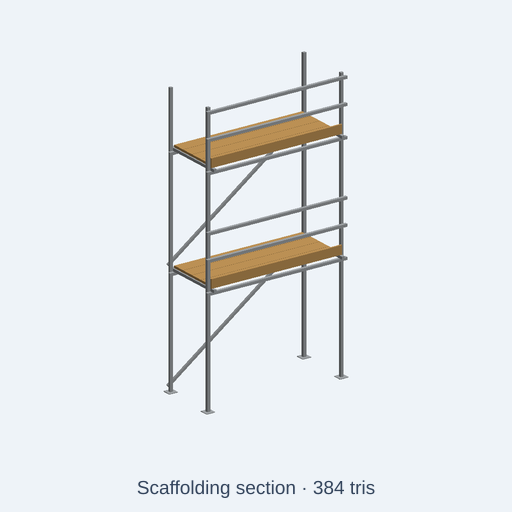
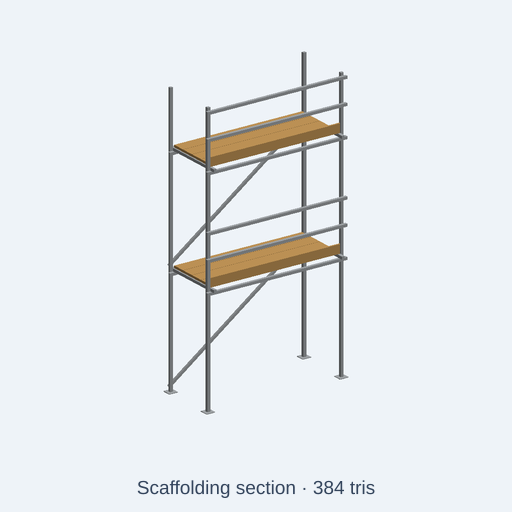
fix(catalog): correct city street clock and structural connections

diff --git a/tests/integration/catalog/cityStreetAssetGeometry.test.ts b/tests/integration/catalog/cityStreetAssetGeometry.test.ts
@@ -1,0 +1,85 @@
+// SPDX-License-Identifier: MIT
+// Copyright (c) 2026 Andrii Shylenko and kernelCAD contributors
+import { resolve } from 'node:path';
+import { NodeIO } from '@gltf-transform/core';
+import { beforeAll, describe, expect, it } from 'vitest';
+import { buildCatalogAssetWithGlb } from '../../../src/agent/catalog/buildCatalog';
+import { initOcct } from '../../../src/kernel/backends/occt/occtBackend';
+
+const root = resolve(import.meta.dirname, '../../..');
+type Point = [number, number, number];
+async function geometry(id: string) {
+  const { asset, glb } = await buildCatalogAssetWithGlb(root, 'catalog/kits/city-street/' + id + '.kcad.ts');
+  expect(asset.stats.minUpM).toBeCloseTo(0, 6);
+  expect(asset.stats.triangles).toBeLessThanOrEqual(asset.triangleBudget);
+  const nodes = (await new NodeIO().readBinary(glb)).getRoot().listNodes();
+  const vertices = (name: string): Point[] => {
+    const node = nodes.find((n) => n.getName() === name);
+    const mesh = node?.getMesh();
+    if (!node || !mesh) throw new Error('Missing geometry ' + name);
+    const world = node.getWorldMatrix();
+    return mesh.listPrimitives().flatMap((primitive) => {
+      const pos = primitive.getAttribute('POSITION');
+      if (!pos) throw new Error('Missing vertices ' + name);
+      return Array.from({ length: pos.getCount() }, (_, index): Point => {
+        const p = pos.getElement(index, []);
+        return [0, 1, 2].map((i) => world[i]! * p[0]! + world[i + 4]! * p[1]!
+          + world[i + 8]! * p[2]! + world[i + 12]!) as Point;
+      });
+    });
+  };
+  const bounds = (name: string) => {
+    const p = vertices(name);
+    return [0, 1, 2].map((i) => ({ min: Math.min(...p.map((v) => v[i]!)), max: Math.max(...p.map((v) => v[i]!)) }));
+  };
+  return { vertices, bounds };
+}
+
+beforeAll(async () => { await initOcct(); }, 120_000);
+
+describe('city-street scene geometry', () => {
+  it('shows the default 10:10 clockwise on both clock faces', async () => {
+    const { bounds } = await geometry('street-clock');
+    const centerX = (name: string) => {
+      const x = bounds(name)[0]!;
+      return (x.min + x.max) / 2;
+    };
+    expect(centerX('minute-front')).toBeGreaterThan(0.08);
+    expect(centerX('hour-front')).toBeLessThan(-0.04);
+    expect(centerX('minute-back')).toBeLessThan(-0.08);
+    expect(centerX('hour-back')).toBeGreaterThan(0.04);
+  }, 120_000);
+
+  it('angles utility braces upward toward the outer crossarm', async () => {
+    const { vertices, bounds } = await geometry('utility-pole');
+    for (const index of [1, 2]) {
+      const arm = bounds('arm-' + index);
+      for (const [side, sign] of [['l', -1], ['r', 1]] as const) {
+        const name = 'brace-' + index + '-' + side;
+        const points = vertices(name).sort((a, b) => a[1] - b[1]);
+        const low = points[0]!;
+        const high = points.at(-1)!;
+        expect(sign * high[0]).toBeGreaterThan(0.6);
+        expect(Math.abs(low[0])).toBeLessThan(0.06);
+        expect(high[1]).toBeGreaterThan(arm[1]!.min);
+        expect(bounds(name)[2]!.max).toBeGreaterThan(arm[2]!.min);
+        expect(bounds(name)[2]!.min).toBeLessThan(arm[2]!.max);
+      }
+    }
+  }, 120_000);
+
+  it('brings each scaffold brace into the post plane and each toe board into its deck', async () => {
+    const { bounds } = await geometry('scaffolding-section');
+    const post = bounds('standard-2');
+    for (const i of [1, 2]) {
+      const brace = bounds('brace-' + i);
+      expect(brace[2]!.max).toBeGreaterThan(post[2]!.min);
+      expect(brace[2]!.min).toBeLessThan(post[2]!.max);
+      const toe = bounds('toe-board-' + i);
+      const plank = bounds('plank-' + i + '-1');
+      expect(toe[2]!.max).toBeGreaterThan(plank[2]!.min);
+      expect(toe[2]!.min).toBeLessThan(plank[2]!.max);
+      expect(toe[1]!.min).toBeCloseTo(plank[1]!.min, 6);
+    }
+  }, 120_000);
+});

diff --git a/catalog/kits/city-street/scaffolding-section.kcad.ts b/catalog/kits/city-street/scaffolding-section.kcad.ts
@@ -63,10 +63,10 @@ for (let i = 1; i <= n; i++) {
     const y0 = -D / 2 + 20 + p * pw;
     sc.part(`plank-${i}-${p + 1}`, blk(-L / 2 + t, y0 + 4, z + t, L / 2 - t, y0 + pw - 4, z + t + 40).color(boards));
   }
-  sc.part(`toe-board-${i}`, blk(-L / 2 + t / 2, -D / 2 - t / 2 - 30, z + t, L / 2 - t / 2, -D / 2 - t / 2, z + t + 160).color(boards));
+  sc.part(`toe-board-${i}`, blk(-L / 2 + t / 2, -D / 2 - 5, z + t, L / 2 - t / 2, -D / 2 + 25, z + t + 160).color(boards));
   sc.part(`guard-rail-${i}`, blk(-L / 2 - 60, -D / 2 - t / 2 - t, z + 950, L / 2 + 60, -D / 2 - t / 2, z + 1000).color(tube));
   sc.part(`mid-rail-${i}`, blk(-L / 2 - 60, -D / 2 - t / 2 - t, z + 500, L / 2 + 60, -D / 2 - t / 2, z + 550).color(tube));
-  sc.part(`brace-${i}`, bar(-L / 2, z - lh + 100, L / 2, z - 60, 44, D / 2 + t).color(tube));
+  sc.part(`brace-${i}`, bar(-L / 2, z - lh + 100, L / 2, z - 60, 44, D / 2 + t / 2).color(tube));
 }
 
 return sc.model();

diff --git a/catalog/kits/city-street/utility-pole.kcad.ts b/catalog/kits/city-street/utility-pole.kcad.ts
@@ -45,10 +45,10 @@ for (let i = 0; i < na; i++) {
   const z = H - 350 - i * 700;
   up.part(`arm-${i + 1}`, box(armL, 100, 110, true).translate(0, -150, z).color(wood));
   for (const side of [-1, 1]) {
-    // Brace from the pole down-and-in to the arm, in the XZ plane at the arm's Y.
-    const len = Math.hypot(620, 560);
-    const a = (Math.atan2(560, 620) * 180) / Math.PI;
-    const brace = box(len, 40, 50, true).rotateY(side * a).translate(side * 330, -150, z - 300);
+    // Diagonal brace runs upward and outward from the pole into the crossarm.
+    const len = Math.hypot(660, 620);
+    const a = (Math.atan2(620, 660) * 180) / Math.PI;
+    const brace = box(len, 40, 50, true).rotateY(-side * a).translate(side * 350, -100, z - 320);
     up.part(`brace-${i + 1}-${side < 0 ? 'l' : 'r'}`, brace.color(wood));
   }
   for (const [k, x] of [-1100, -650, 650, 1100].entries()) {

diff --git a/catalog/kits/city-street/street-clock.kcad.ts b/catalog/kits/city-street/street-clock.kcad.ts
@@ -52,7 +52,7 @@ for (const side of [-1, 1]) {
   sc.part(`face-${tag}`, disc(310, 10, y, cz).color(face));
   // Clockwise as seen from outside: mirror the angle on the back face.
   const hand = (len: number, w: number, deg: number) =>
-    box(w, 10, len).translate(-w / 2, -5, -20).rotateY(side * deg).translate(0, side * 120, cz);
+    box(w, 10, len).translate(-w / 2, -5, -20).rotateY(-side * deg).translate(0, side * 120, cz);
   sc.part(`hour-${tag}`, hand(180, 34, (hh % 12) * 30 + mm * 0.5).color(hands));
   sc.part(`minute-${tag}`, hand(270, 22, mm * 6).color(hands));
   for (let q = 0; q < 4; q++) {
